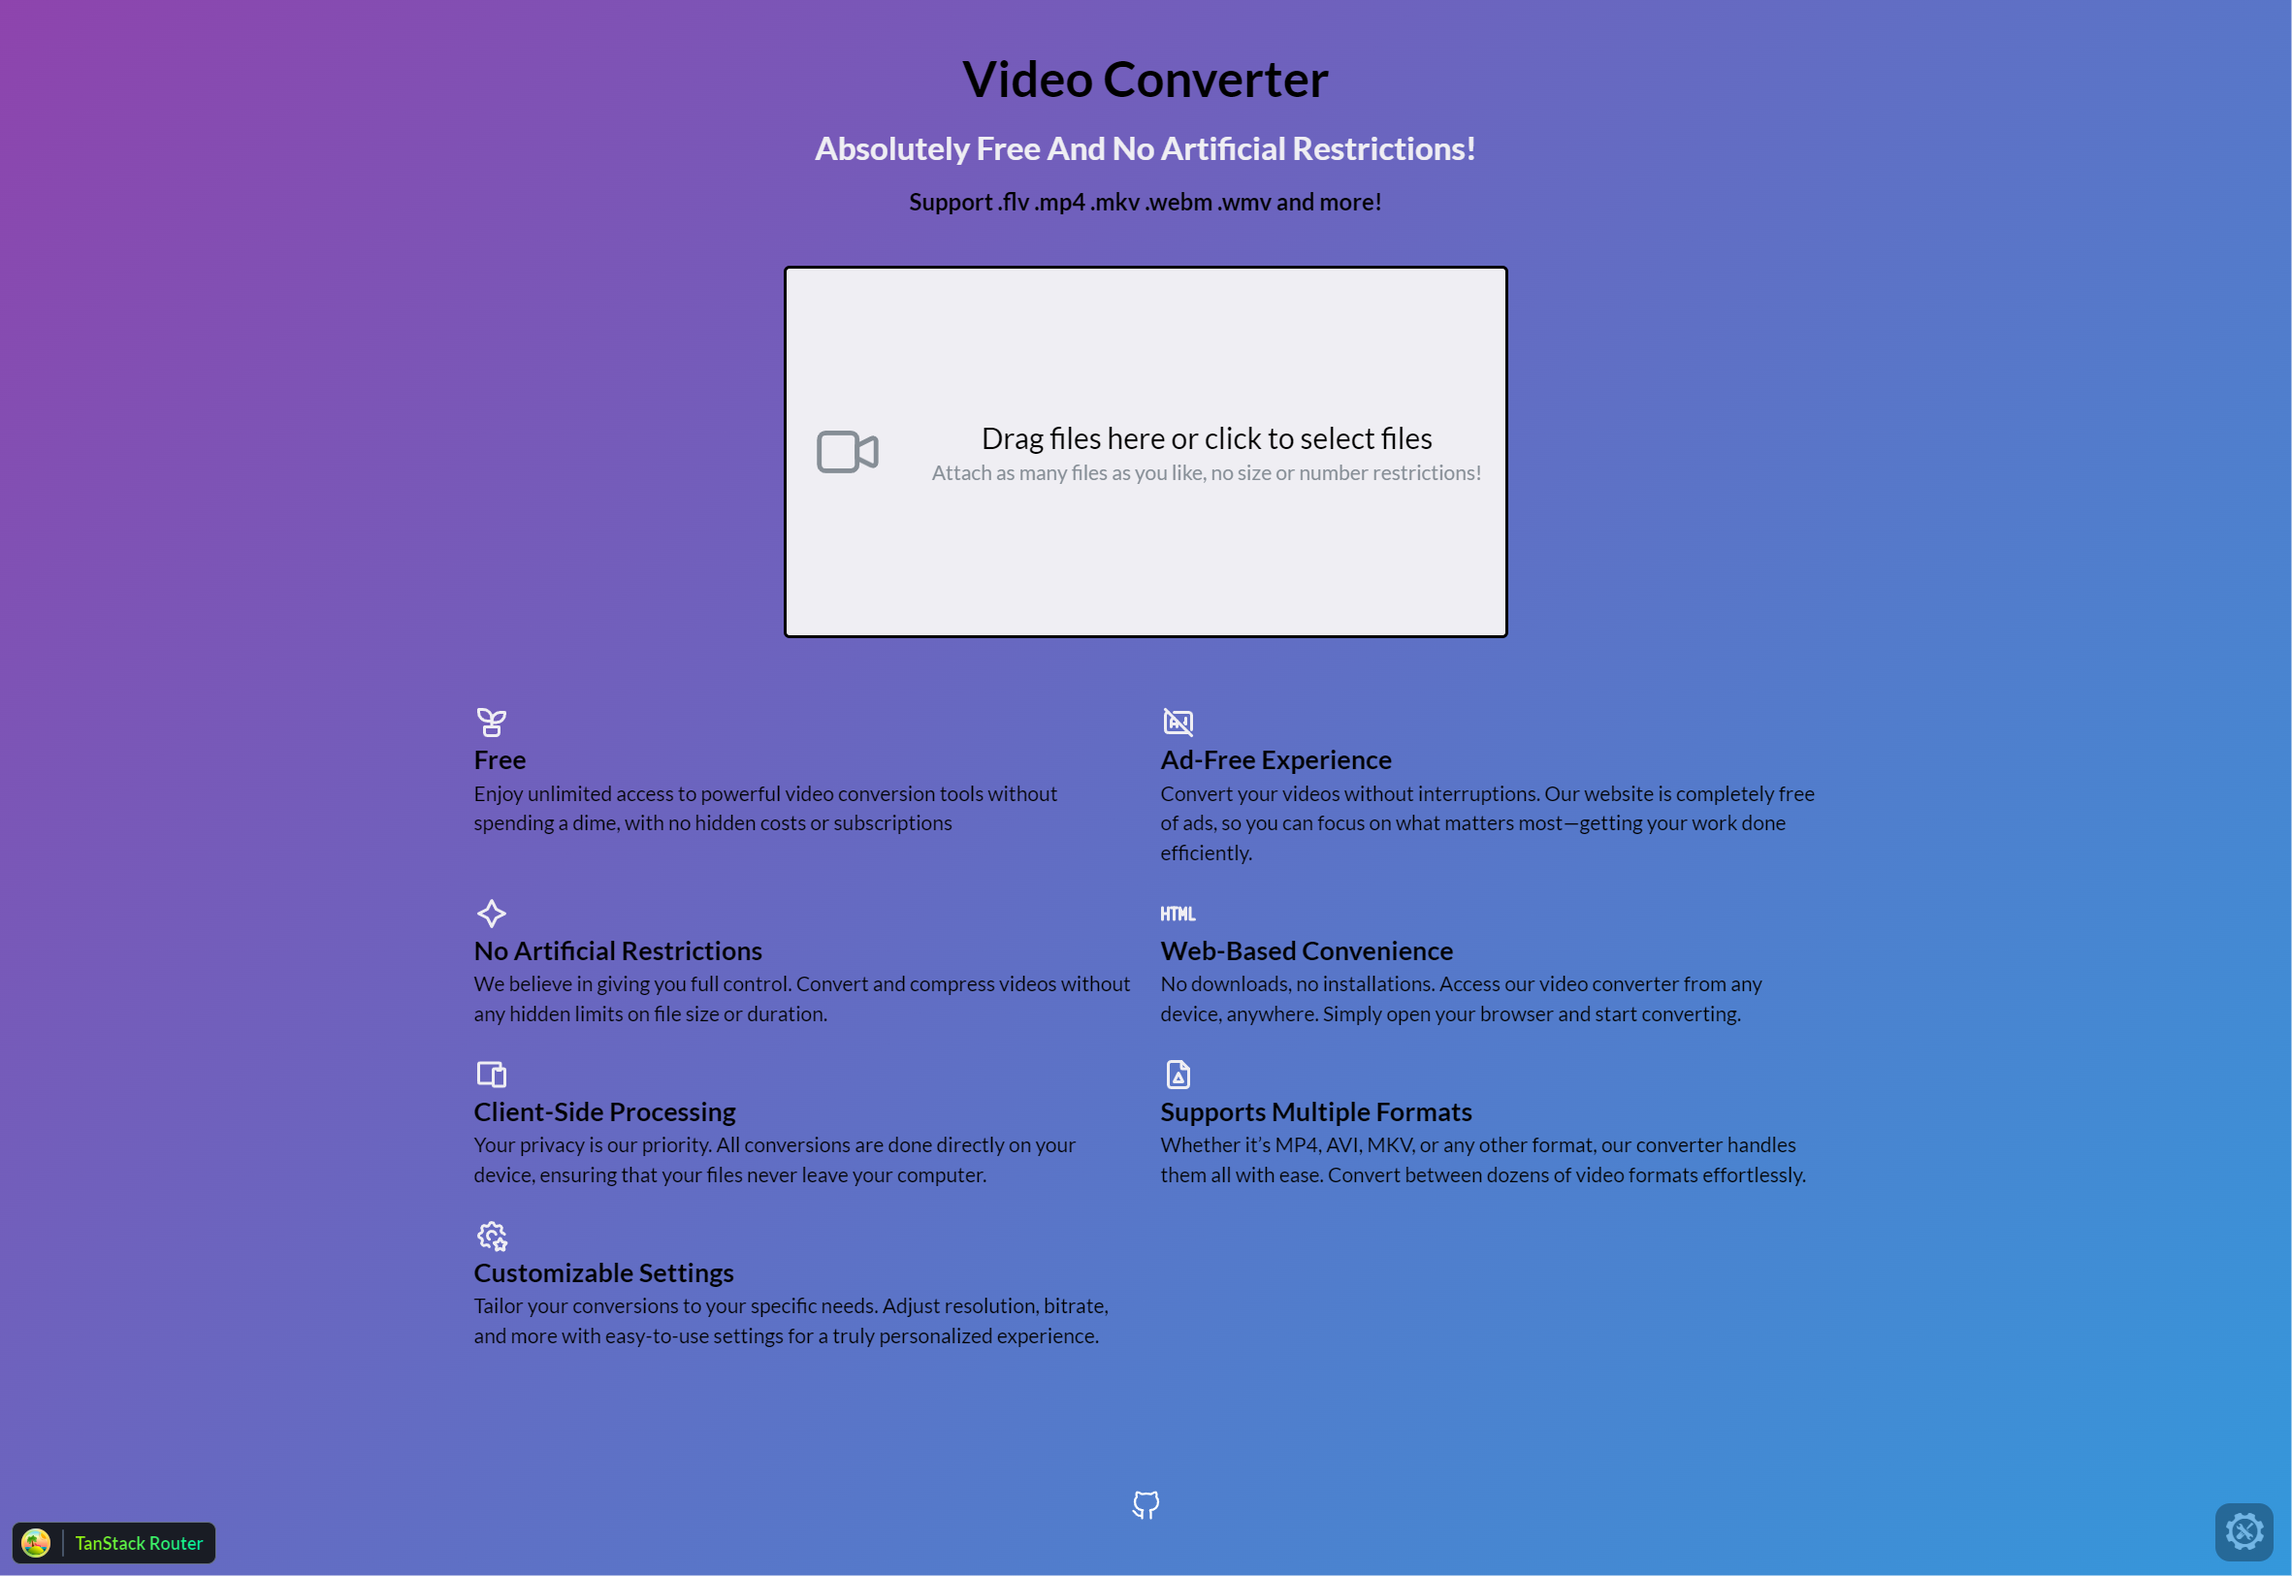
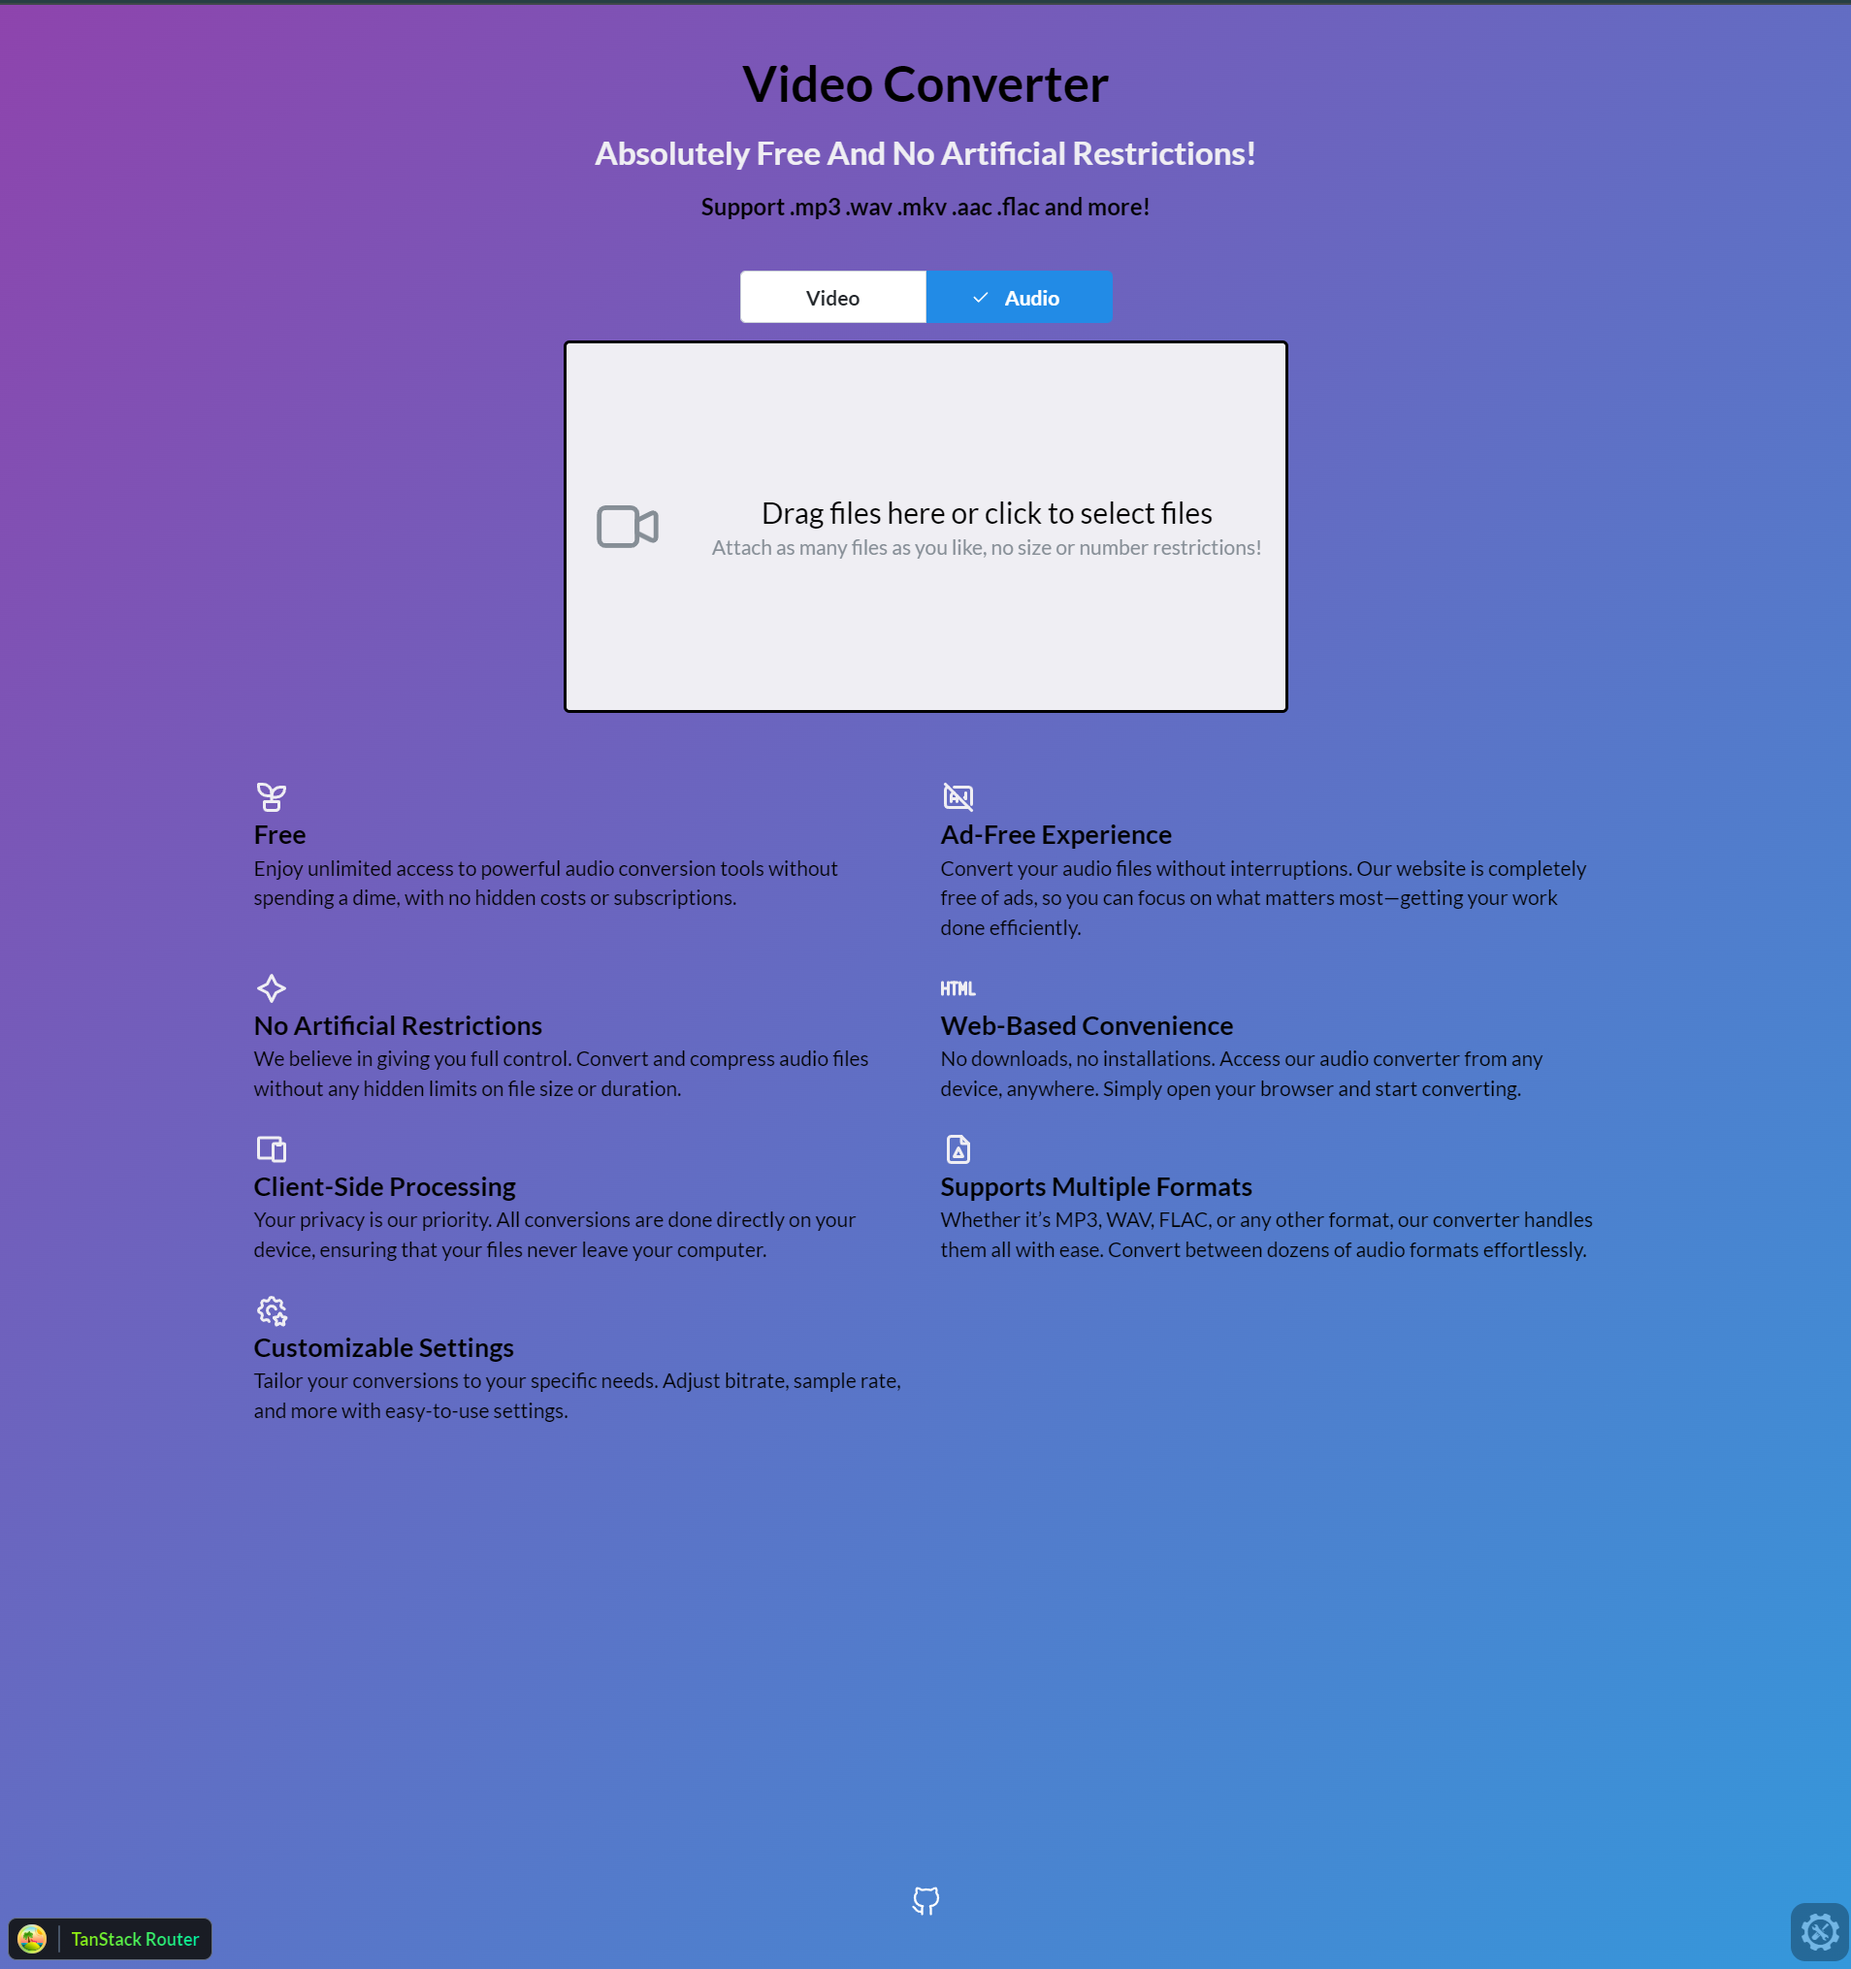
update readme

diff --git a/README.md b/README.md
@@ -24,7 +24,7 @@ This project demonstrates how to easily create such an online converter.
 Roadmap:
 
 1. video converter (done)
-2. audio converter
+2. audio converter (done)
 3. image converter
 
 ![homepage](.assets//homepage.png)
